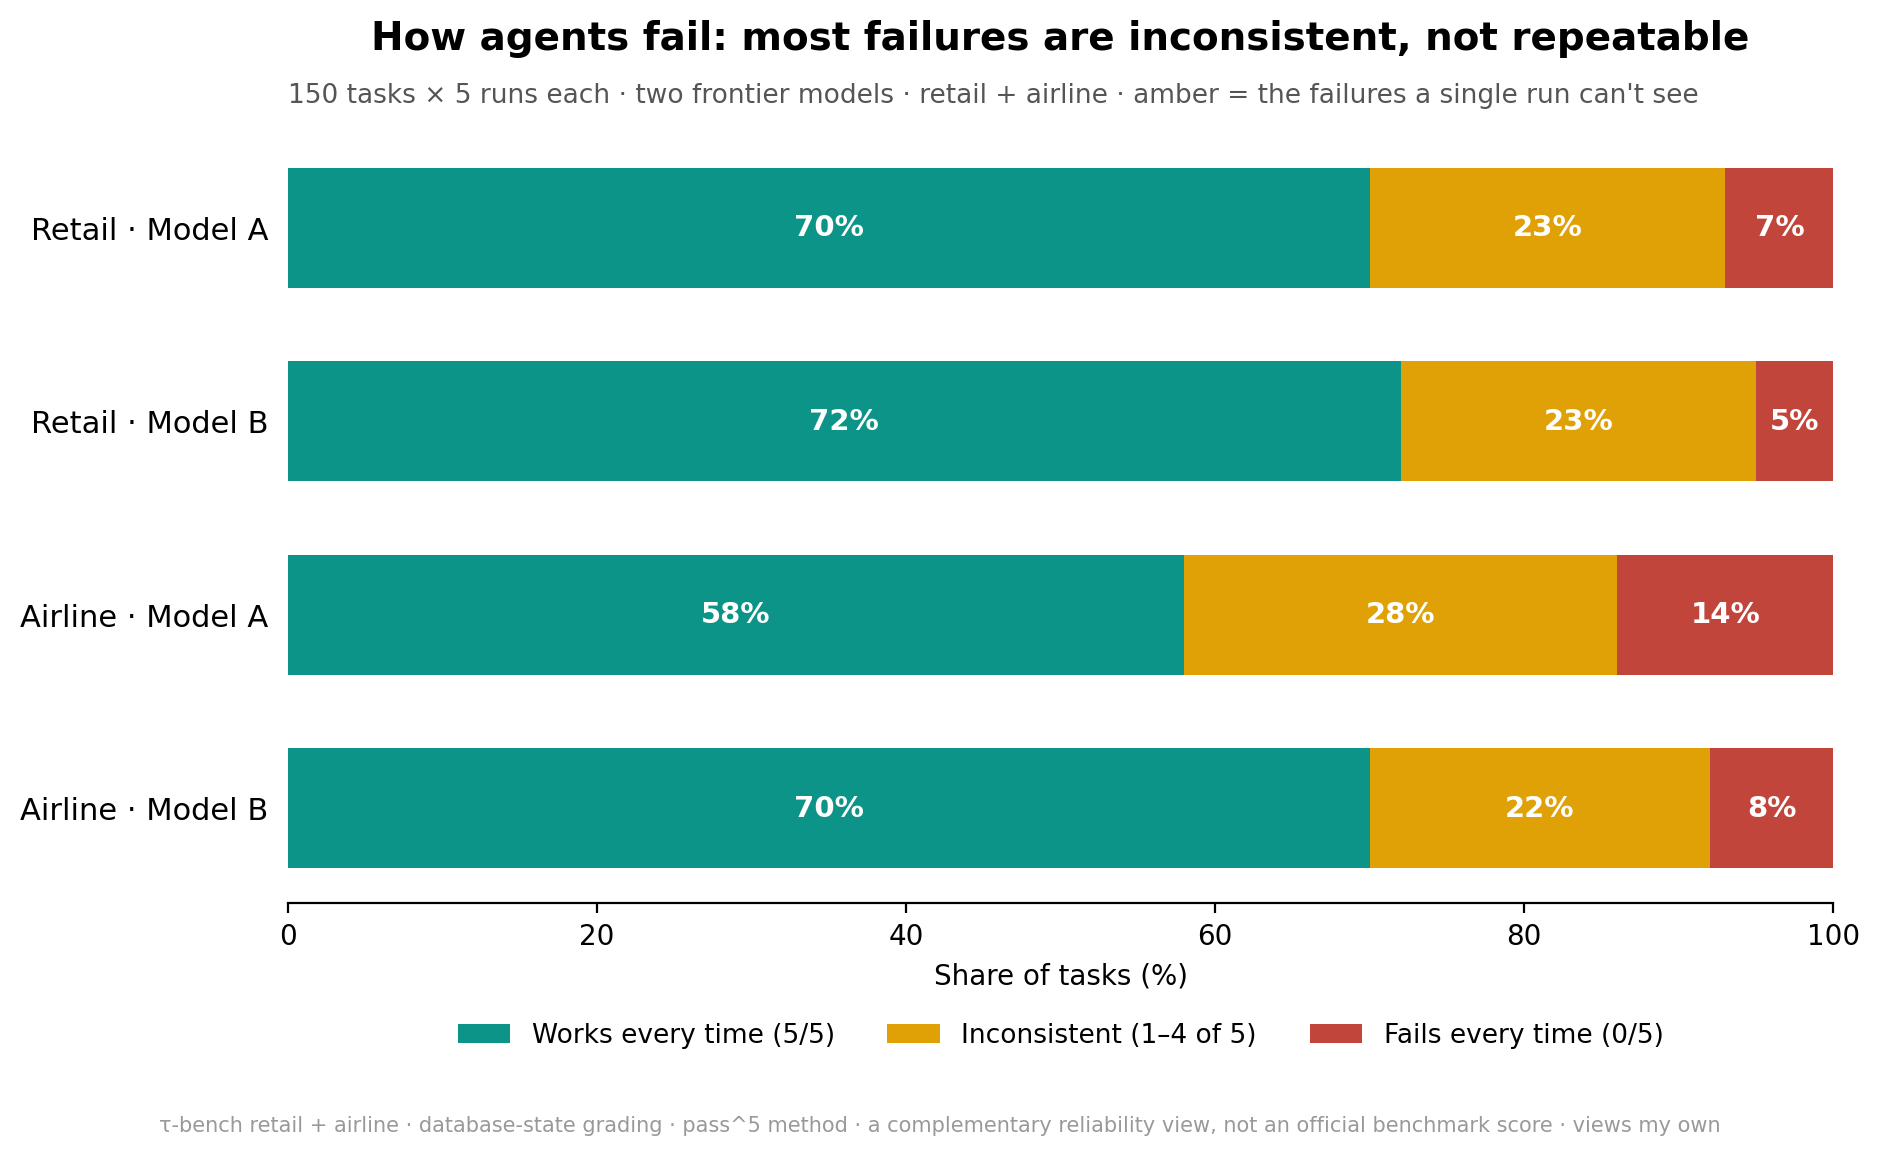
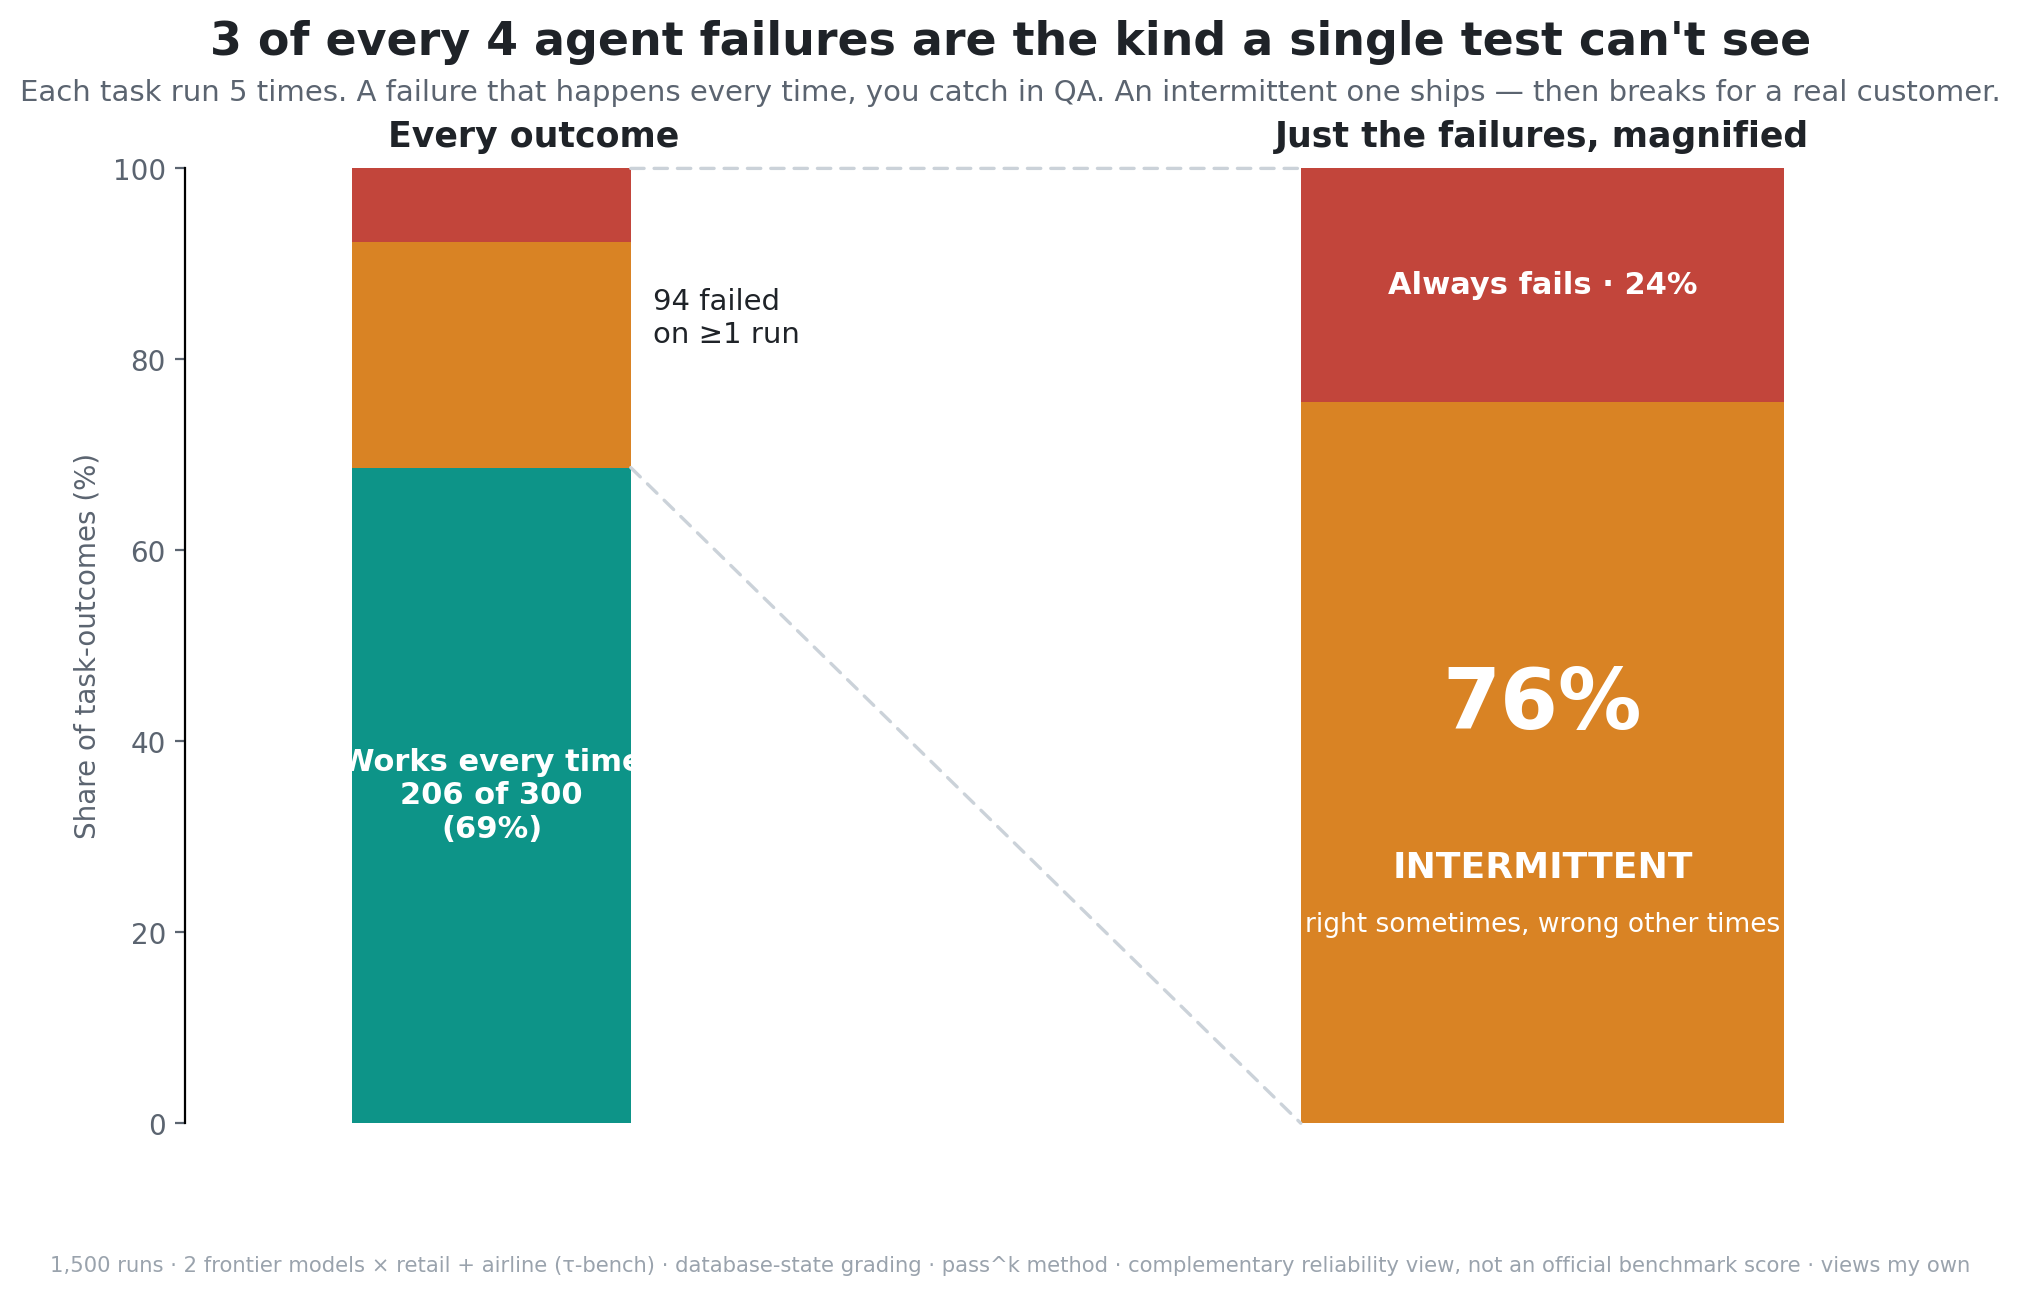
Improve Post 2 chart: zoom into failures so the intermittent split is the focus
Old stacked bar buried the failures under green. New chart shows all outcomes,
then magnifies just the failing slice -> 76% intermittent vs 24% always-fails.
Title carries the message standalone.

diff --git a/results/make_chart2.py b/results/make_chart2.py
@@ -1,63 +1,94 @@
-"""Post 2 chart: three-bucket failure breakdown per dataset.
+"""Post 2 chart: zoom into the failures.
 
-Stacked bars — works-every-time (green) / inconsistent (amber) / fails-every-time
-(red) — showing that across models and domains, the inconsistent (intermittent)
-slice dominates the failures.
+The story is "of the failures, ~3 in 4 are intermittent" — but failures are a
+minority of outcomes, so a plain stacked bar buries them under green. This chart
+shows all outcomes (left), then magnifies just the failing slice (right) so the
+intermittent-dominates message actually pops.
+
+Pooled across 2 models × 2 domains (retail+airline), 150 tasks/model, k=5.
 """
 
 import matplotlib
 matplotlib.use("Agg")
 import matplotlib.pyplot as plt
-import numpy as np
+from matplotlib.patches import ConnectionPatch
 
-# (always_pass, intermittent, systematic) from the real n=100/50 runs
-data = {
-    "Retail · Model A":  (70, 23, 7),
-    "Retail · Model B":  (72, 23, 5),
-    "Airline · Model A": (29, 14, 7),
-    "Airline · Model B": (35, 11, 4),
-}
-labels = list(data.keys())
-# normalize to % so retail (100) and airline (50) compare on one axis
-def pct(t):
-    n = sum(t)
-    return [100 * x / n for x in t]
-vals = np.array([pct(data[k]) for k in labels])  # rows: dataset, cols: 3 buckets
+# pooled counts (300 task-outcomes = 150 tasks x 2 models)
+WORKS, INTER, SYST = 206, 71, 23
+TOTAL = WORKS + INTER + SYST          # 300
+FAILS = INTER + SYST                  # 94
+w_pct = 100 * WORKS / TOTAL
+i_pct_all = 100 * INTER / TOTAL
+s_pct_all = 100 * SYST / TOTAL
+i_share = 100 * INTER / FAILS         # 75.5
+s_share = 100 * SYST / FAILS          # 24.5
 
-green, amber, red = "#0d9488", "#e0a106", "#c2453b"
-fig, ax = plt.subplots(figsize=(9.5, 5.6), dpi=200)
-y = np.arange(len(labels))[::-1]  # top-to-bottom
-left = np.zeros(len(labels))
-segs = [
-    ("Works every time (5/5)", green),
-    ("Inconsistent (1–4 of 5)", amber),
-    ("Fails every time (0/5)", red),
-]
-for i, (name, color) in enumerate(segs):
-    ax.barh(y, vals[:, i], left=left, color=color, label=name, height=0.62)
-    for j, v in enumerate(vals[:, i]):
-        if v >= 5:
-            ax.text(left[j] + v / 2, y[j], f"{v:.0f}%", ha="center", va="center",
-                    color="white", fontsize=10.5, fontweight="bold")
-    left += vals[:, i]
+GREEN, AMBER, RED = "#0d9488", "#d98324", "#c2453b"
+INK, SOFT = "#1f2328", "#5b6470"
+plt.rcParams["font.family"] = "DejaVu Sans"
 
-ax.set_yticks(y)
-ax.set_yticklabels(labels, fontsize=11)
-ax.set_xlim(0, 100)
-ax.set_xlabel("Share of tasks (%)", fontsize=10)
-ax.set_title("How agents fail: most failures are inconsistent, not repeatable",
-             fontsize=14, fontweight="bold", pad=30)
-ax.text(0, 1.04, "150 tasks × 5 runs each · two frontier models · retail + airline · "
-        "amber = the failures a single run can't see",
-        transform=ax.transAxes, fontsize=9.5, color="#555")
-ax.legend(loc="lower center", bbox_to_anchor=(0.5, -0.22), ncol=3, frameon=False, fontsize=9.5)
-ax.spines[["top", "right", "left"]].set_visible(False)
-ax.tick_params(left=False)
-ax.set_axisbelow(True)
-fig.text(0.5, -0.02,
-         "τ-bench retail + airline · database-state grading · pass^5 method · "
-         "a complementary reliability view, not an official benchmark score · views my own",
-         ha="center", fontsize=7.5, color="#999")
-fig.tight_layout()
+fig, (axL, axR) = plt.subplots(1, 2, figsize=(11, 6.2), dpi=200,
+                               gridspec_kw={"width_ratios": [1, 1], "wspace": 0.45})
+fig.patch.set_facecolor("white")
+
+# ---- LEFT: all outcomes (one tall stacked bar) ----
+xL = 0.0
+bw = 0.5
+axL.bar(xL, w_pct, bw, color=GREEN)
+axL.bar(xL, i_pct_all, bw, bottom=w_pct, color=AMBER)
+axL.bar(xL, s_pct_all, bw, bottom=w_pct + i_pct_all, color=RED)
+axL.text(xL, w_pct / 2, f"Works every time\n{WORKS} of {TOTAL}\n({w_pct:.0f}%)",
+         ha="center", va="center", color="white", fontsize=11, fontweight="bold")
+axL.text(xL + bw/2 + 0.04, w_pct + (i_pct_all + s_pct_all) / 2,
+         f"{FAILS} failed\non ≥1 run", ha="left", va="center", color=INK, fontsize=10.5)
+axL.set_xlim(-0.55, 0.7)
+axL.set_ylim(0, 100)
+axL.set_title("Every outcome", fontsize=12.5, fontweight="bold", color=INK, pad=8)
+axL.set_ylabel("Share of task-outcomes (%)", fontsize=10, color=SOFT)
+axL.set_xticks([])
+for s in ("top", "right", "bottom"):
+    axL.spines[s].set_visible(False)
+axL.tick_params(colors=SOFT)
+
+# ---- RIGHT: zoom into just the failures (wide bar so labels fit) ----
+xR = 0.0
+bwR = 1.25
+axR.bar(xR, i_share, bwR, color=AMBER)
+axR.bar(xR, s_share, bwR, bottom=i_share, color=RED)
+axR.text(xR, i_share / 2 + 6, f"{i_share:.0f}%", ha="center", va="center",
+         color="white", fontsize=30, fontweight="bold")
+axR.text(xR, i_share / 2 - 11, "INTERMITTENT", ha="center", va="center",
+         color="white", fontsize=13, fontweight="bold")
+axR.text(xR, i_share / 2 - 17, "right sometimes, wrong other times",
+         ha="center", va="center", color="white", fontsize=9.5)
+axR.text(xR, i_share + s_share / 2, f"Always fails · {s_share:.0f}%",
+         ha="center", va="center", color="white", fontsize=11, fontweight="bold")
+axR.set_xlim(-0.9, 0.9)
+axR.set_ylim(0, 100)
+axR.set_title("Just the failures, magnified", fontsize=12.5, fontweight="bold", color=INK, pad=8)
+axR.set_xticks([])
+axR.set_yticks([])
+for s in ("top", "right", "bottom", "left"):
+    axR.spines[s].set_visible(False)
+
+# ---- zoom connector lines: top & bottom of the LEFT failing slice -> right bar edges ----
+for yL, yR in [(w_pct, 0), (100, 100)]:
+    con = ConnectionPatch(xyA=(xL + bw/2, yL), coordsA=axL.transData,
+                          xyB=(xR - bwR/2, yR), coordsB=axR.transData,
+                          color="#cbd2d9", lw=1.2, linestyle=(0, (4, 3)))
+    fig.add_artist(con)
+
+# ---- titles ----
+fig.suptitle("3 of every 4 agent failures are the kind a single test can't see",
+             fontsize=16.5, fontweight="bold", color=INK, x=0.5, y=1.0)
+fig.text(0.5, 0.935,
+         "Each task run 5 times. A failure that happens every time, you catch in QA. "
+         "An intermittent one ships — then breaks for a real customer.",
+         ha="center", fontsize=10.5, color=SOFT)
+fig.text(0.5, -0.01,
+         "1,500 runs · 2 frontier models × retail + airline (τ-bench) · database-state grading · "
+         "pass^k method · complementary reliability view, not an official benchmark score · views my own",
+         ha="center", fontsize=7.6, color="#9aa3ad")
+
 fig.savefig("results/post2_chart.png", bbox_inches="tight", facecolor="white")
 print("wrote results/post2_chart.png")